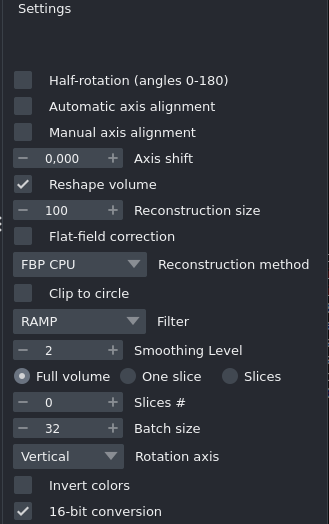
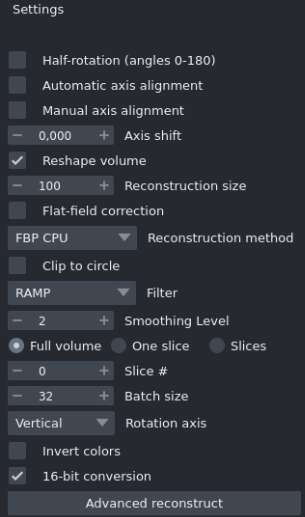
Update advanced_mode.png and correct label in ReconstructionWidget for clarity

diff --git a/tomopari/src/tomopari/_reconstruction_widget.py b/tomopari/src/tomopari/_reconstruction_widget.py
@@ -303,7 +303,7 @@ class ReconstructionWidget(QTabWidget):
         # Add layout to slayout
         slayout.addLayout(radio_layout)
         self.slices_advanced = Settings(
-            "Slices #", dtype=int, initial=0, layout=slayout, write_function=self.set_opt_processor_advanced
+            "Slice #", dtype=int, initial=0, layout=slayout, write_function=self.set_opt_processor_advanced
         )
         self.batch_size_advanced = Settings(
             "Batch size", dtype=int, initial=32, layout=slayout, write_function=self.set_opt_processor_advanced
@@ -312,7 +312,7 @@ class ReconstructionWidget(QTabWidget):
         self.orderbox_advanced = Combo_box(
             name="Rotation axis",
             initial=Order_Modes.Vertical.value,
-            choices=Order_Modes,
+            choices=Order_Modes,image.png
             layout=slayout,
             write_function=self.set_opt_processor_advanced,
         )
